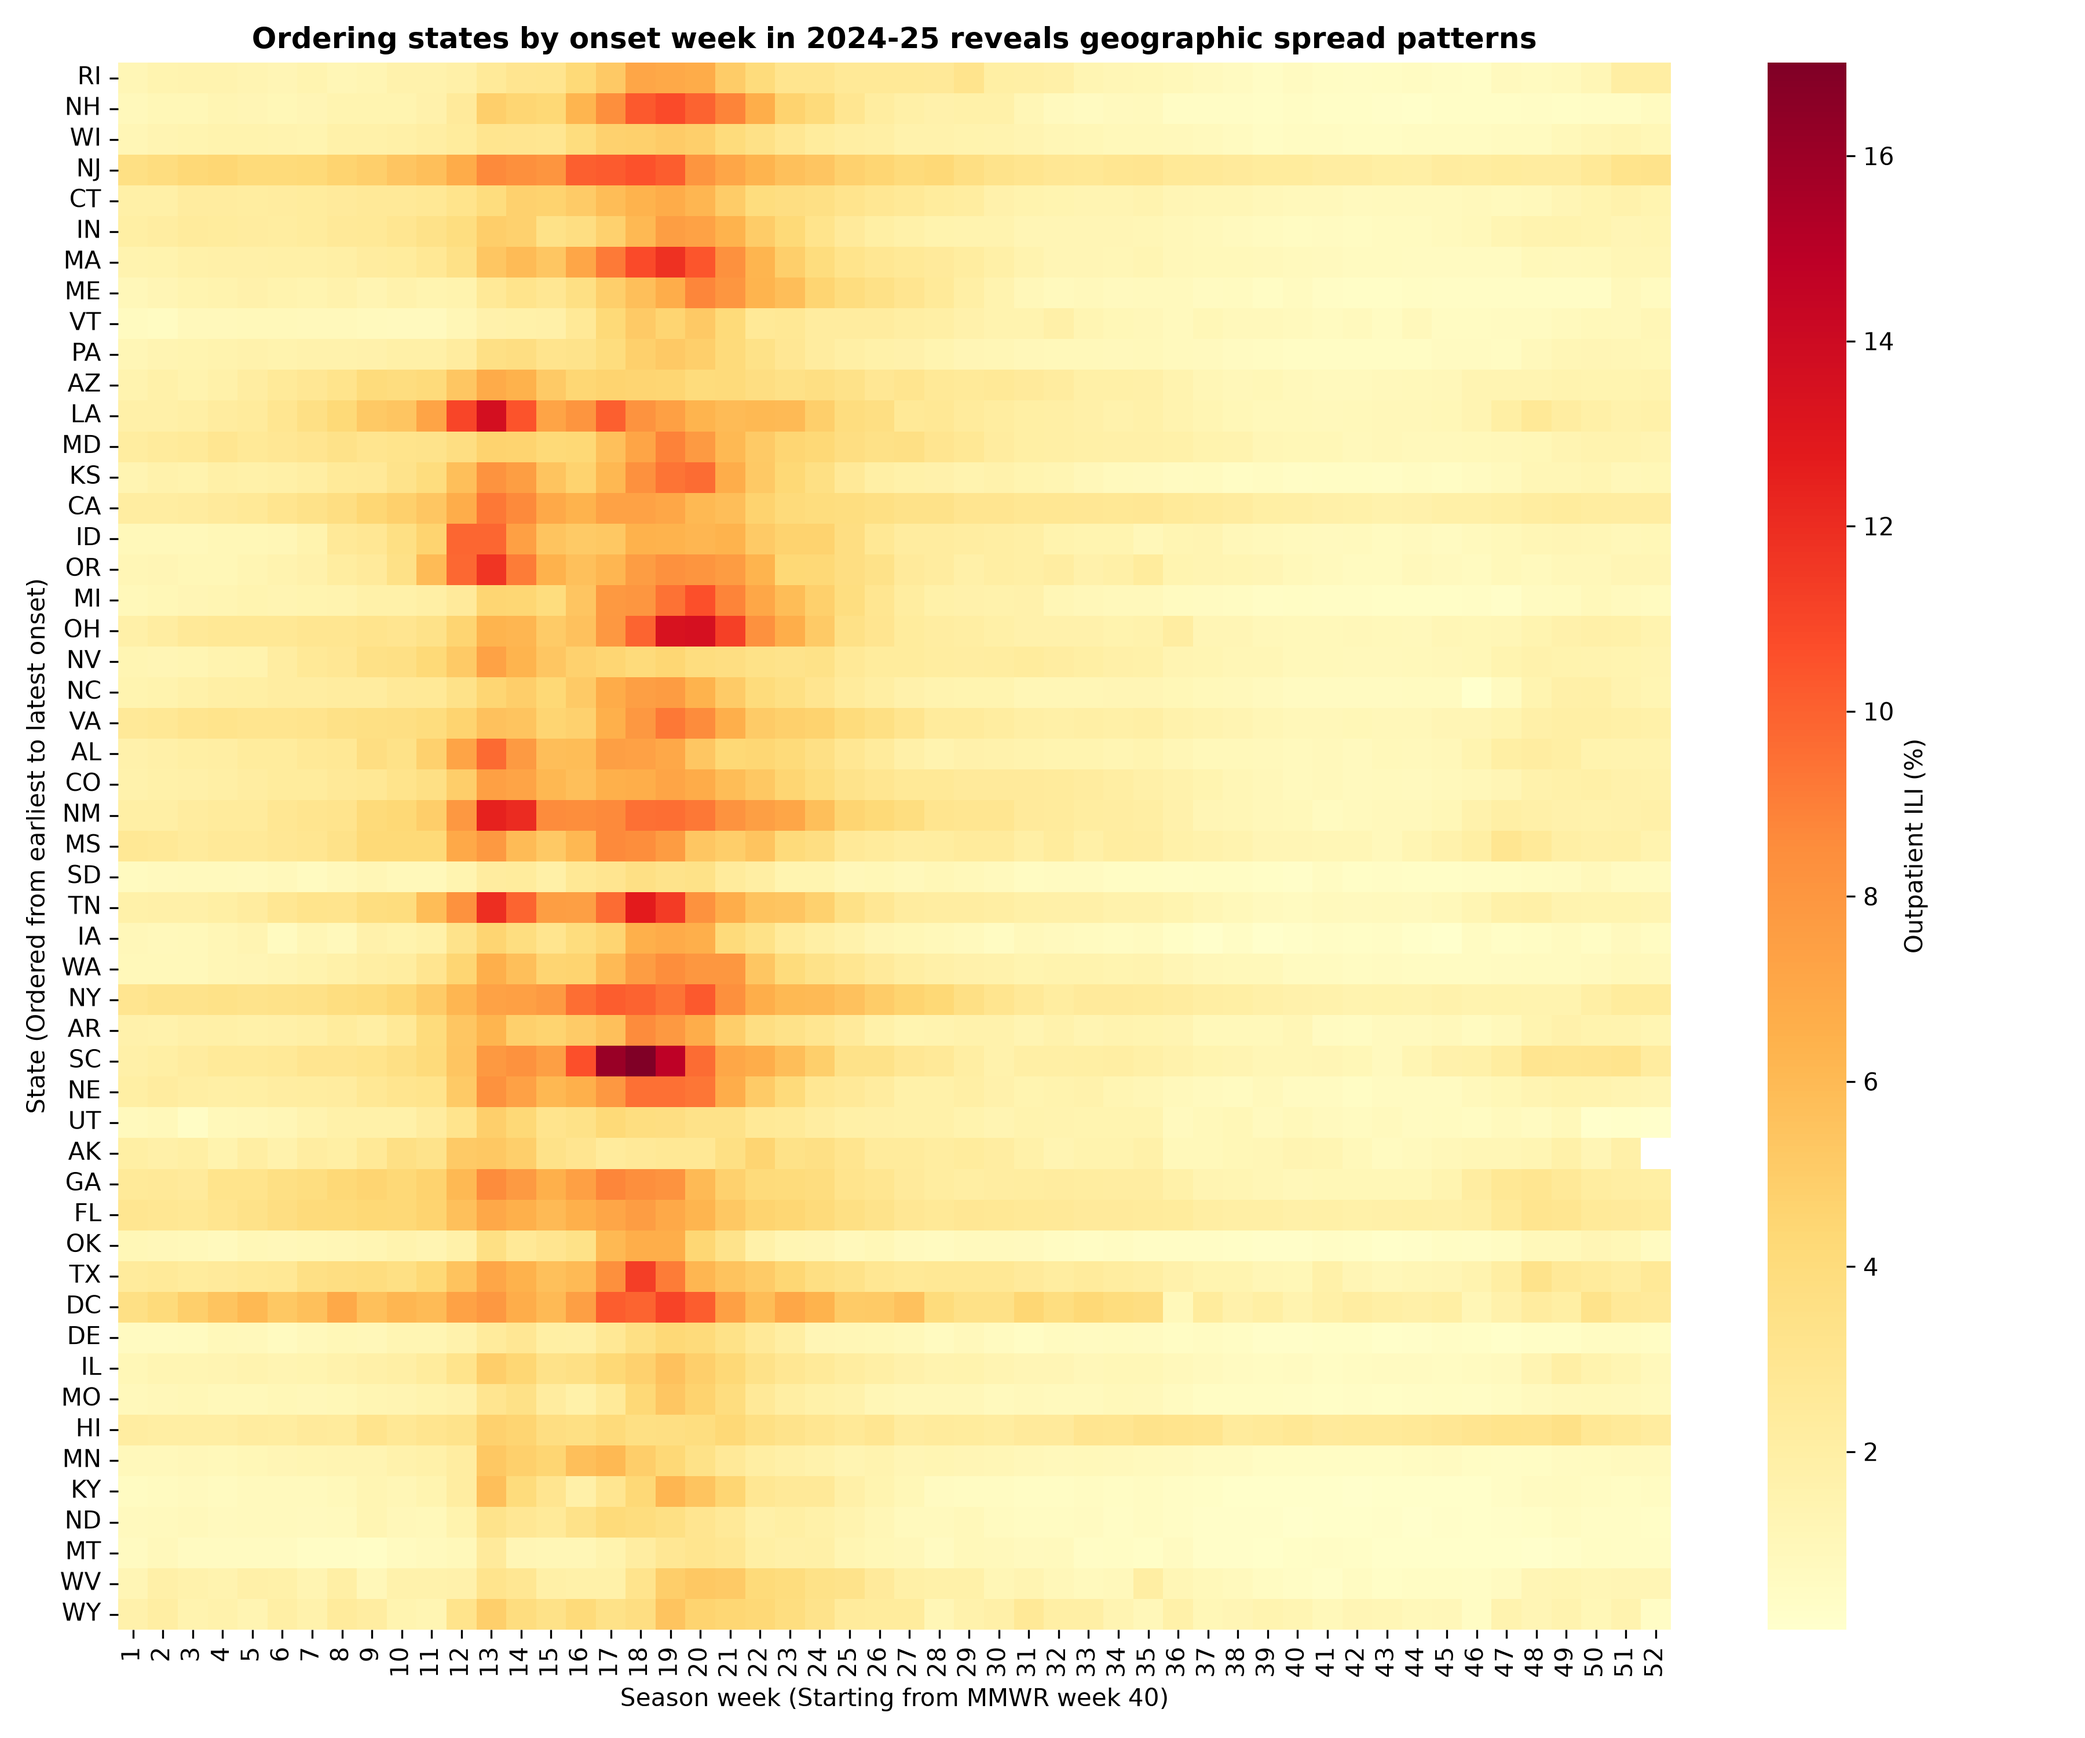
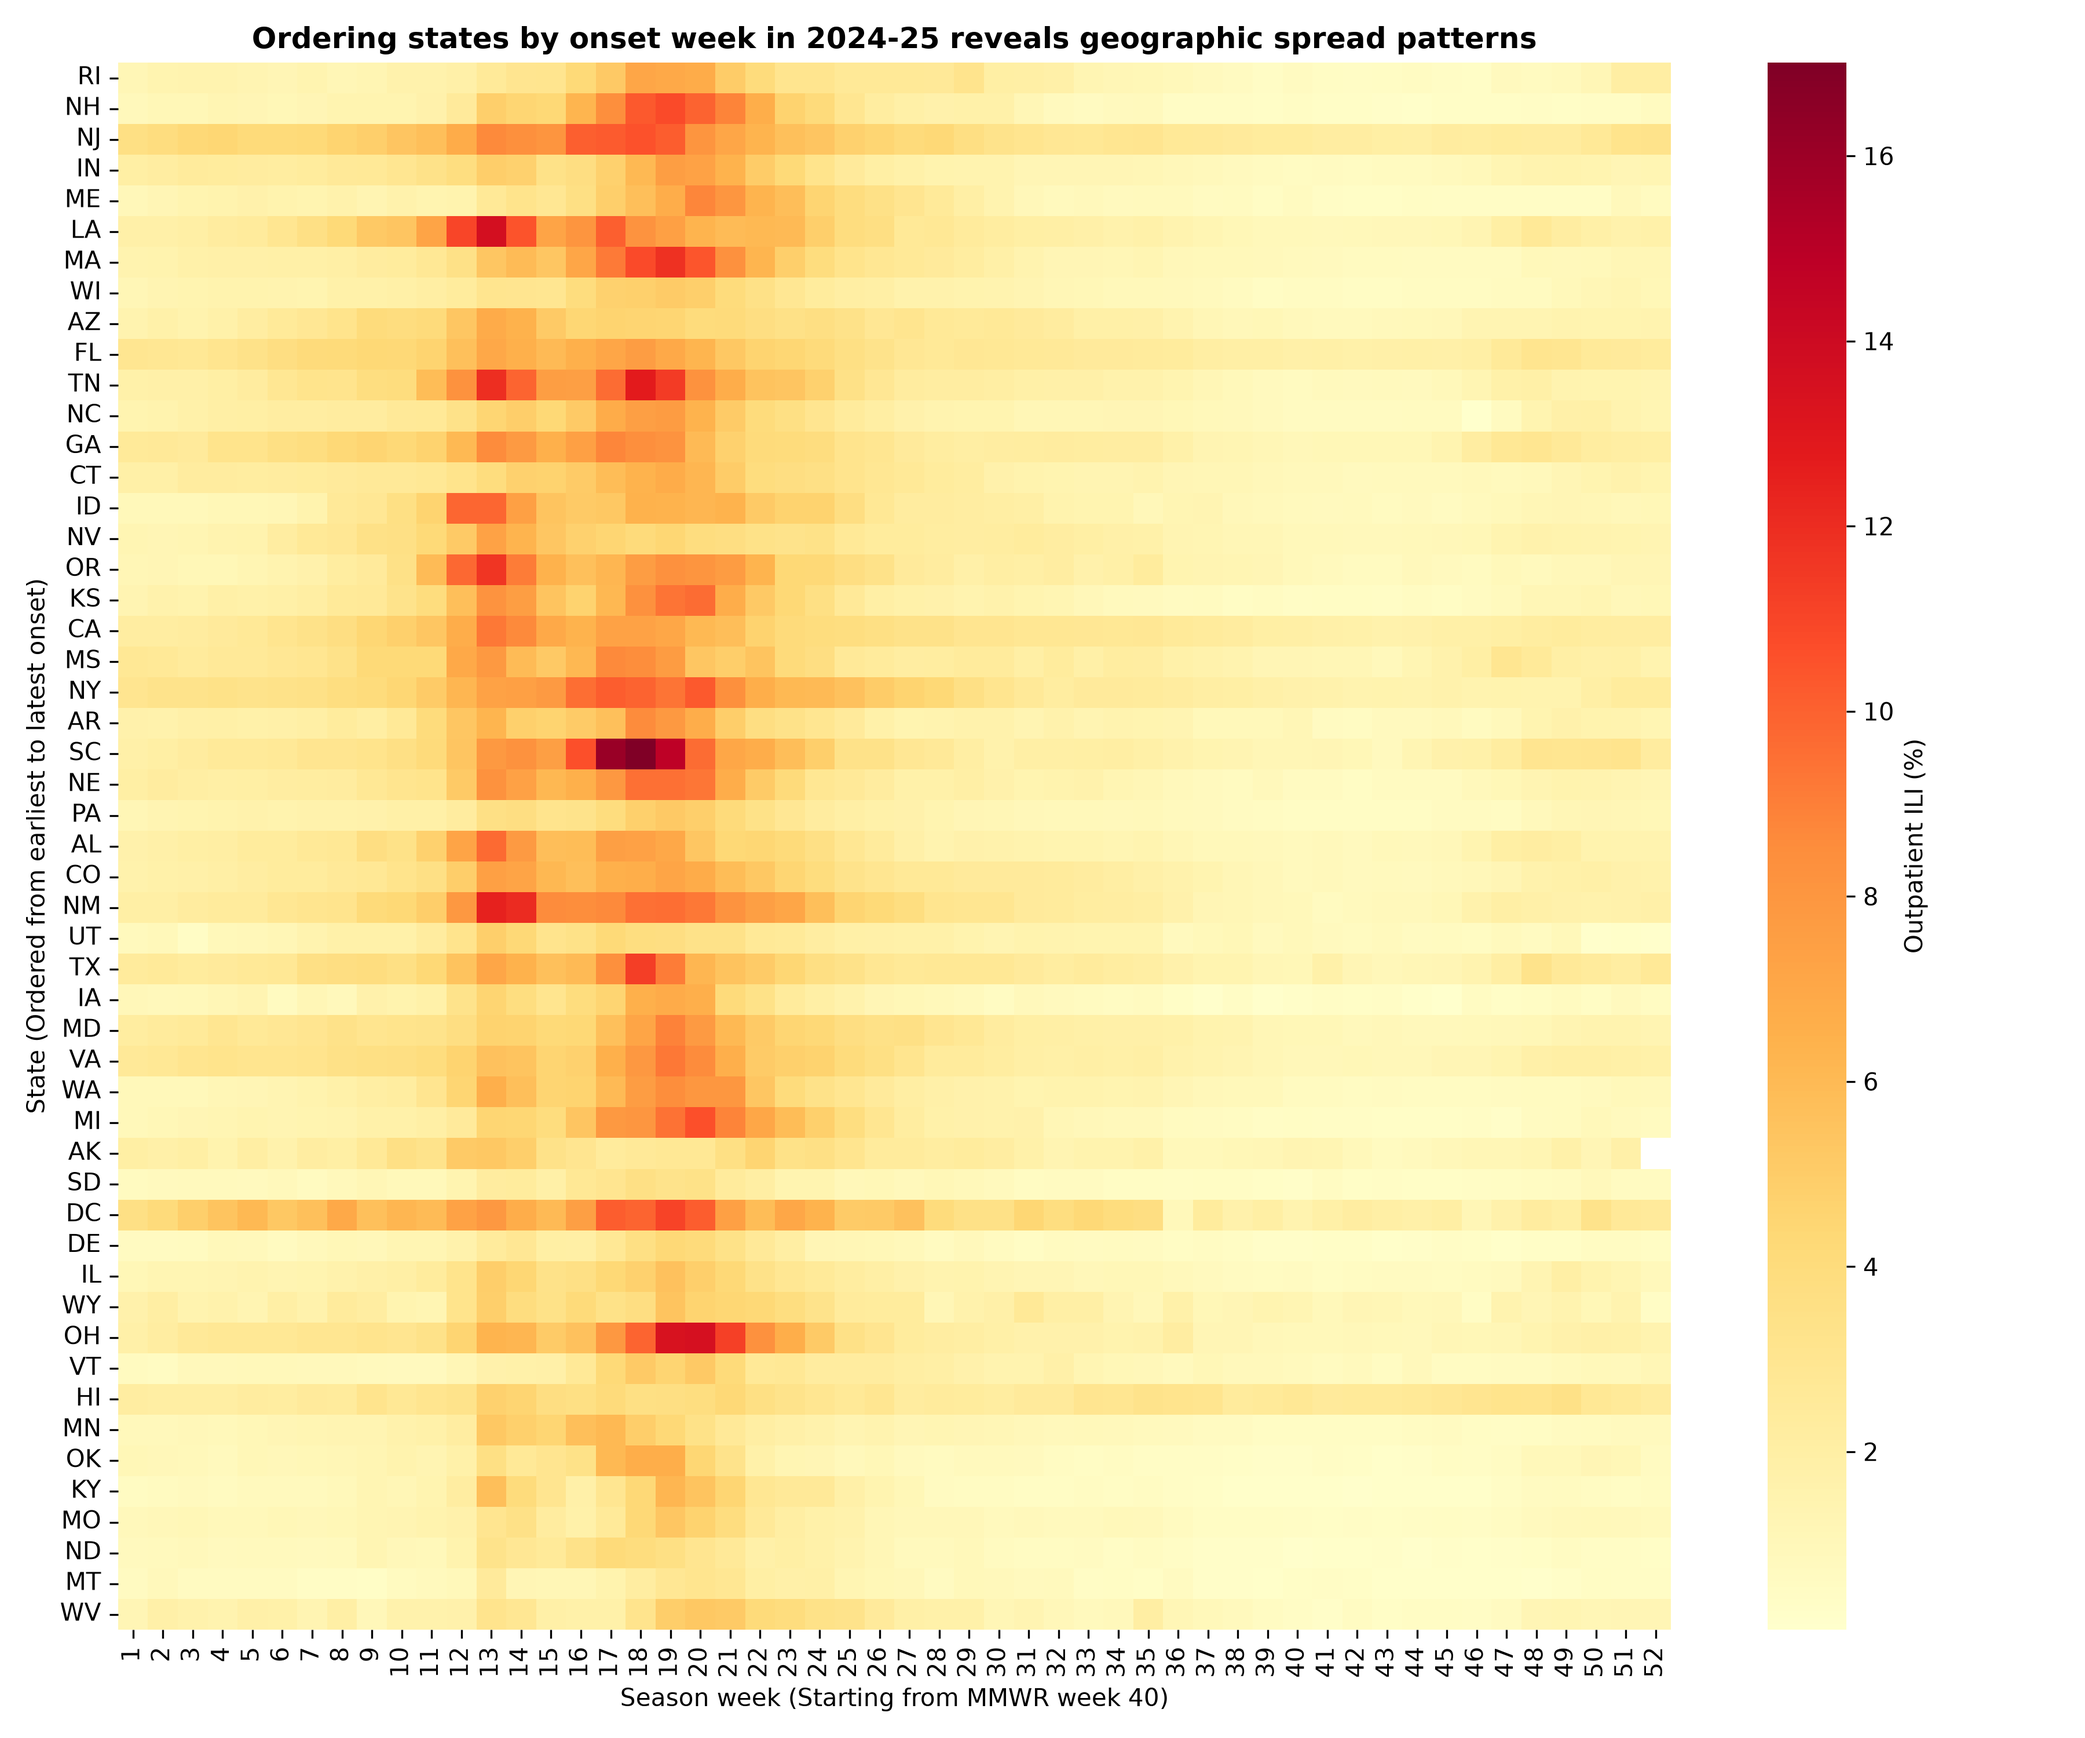
detect non-flu weeks via lab_pct_pos and fix ridgeline

diff --git a/src/fluwatch/seasonality/milestones.py b/src/fluwatch/seasonality/milestones.py
@@ -1,9 +1,9 @@
 import numpy as np
 import pandas as pd
 
+
 # severity = dinh rate_flu (NHSN). NHSN du 51 bang tu 2020-21 (mua bi loai); 2019-20 chi 8 bang -> chi tinh tu mua nay
 SEVERITY_FIRST_SEASON = '2021-22'
-
 
 def mask_sparse_ili(df: pd.DataFrame, max_missing_ratio=0.3):
     df = df.copy()
@@ -26,10 +26,18 @@ def prepare_signal(df: pd.DataFrame, max_missing_ratio=0.3):
 
     return df
 
-def compute_baselines(df: pd.DataFrame):
+def get_non_flu_mask(df: pd.DataFrame, lab_threshold=2, min_consec=3, smooth_window=3):
+    smooth_lab = df['lab_pct_pos'].rolling(window=smooth_window, center=True, min_periods=1).median()
+    below = (smooth_lab < lab_threshold).fillna(False)
+
+    run_id = (~below).cumsum()
+    run_lengths = below.groupby(run_id).transform('sum')
+
+    return below & (run_lengths >= min_consec)
+
+def compute_baselines(df: pd.DataFrame, lab_threshold=2, min_consec=3, smooth_window=3):
     df = df.sort_values(['state', 'season', 'season_week']).copy()
     seasons = sorted(df['season'].unique())
-    off_mask = (df['season_week'] >= 34) | (df['season_week'] <= 3)
 
     records = []
     for (state, season), grp in df.groupby(['state', 'season'], sort=False):
@@ -46,16 +54,29 @@ def compute_baselines(df: pd.DataFrame):
         prev_candidates = [s for s in seasons if s < season and s not in ('2009-10', '2020-21')]
         val_col = 'ili_pct' if source == 'ili' else 'ed_pct_flu'
 
-        valid_prev_seasons = []
+        valid_samples = []
         for ps in reversed(prev_candidates):
-            s_vals = df[(df['state'] == state) & (df['season'] == ps) & off_mask][val_col].dropna()
+            s_grp = df[(df['state'] == state) & (df['season'] == ps)]
+
+            lab_mask = get_non_flu_mask(s_grp, lab_threshold, min_consec, smooth_window)
+            s_vals = s_grp.loc[lab_mask, val_col].dropna()
+
+            if len(s_vals) <= 5:
+                cal_mask = (s_grp['season_week'] >=34) | (s_grp['season_week'] <= 3)
+                s_vals = s_grp.loc[cal_mask, val_col].dropna()
+
             if len(s_vals) > 5:
-                valid_prev_seasons.append(ps)
-            if len(valid_prev_seasons) == 3:
+                valid_samples.append(s_vals)
+                
+            if len(valid_samples) == 3:
                 break
 
-        sub = df[(df['state'] == state) & (df['season'].isin(valid_prev_seasons)) & off_mask][val_col].dropna()
-        baseline = sub.mean() + 2 * sub.std(ddof=1) if len(valid_prev_seasons) > 0 else np.nan
+        if valid_samples:
+            sub = pd.concat(valid_samples)
+            baseline = sub.mean() + 2 * sub.std(ddof=1)
+        else:
+            baseline = np.nan
+
         records.append({
             'state': state,
             'season': season,

diff --git a/src/fluwatch/seasonality/plots.py b/src/fluwatch/seasonality/plots.py
@@ -108,9 +108,11 @@ def plot_onset_ridgeline(milstones: pd.DataFrame, output_dir: Path):
 
     fig, ax = plt.subplots(figsize=(10, 7))
     sub = milstones[(~milstones['season'].isin(EXCLUDE_SEASON + ['2026-27'])) & (milstones['onset_week'].notna())]
+    seasons = sorted(sub['season'].unique(), reverse=True)
 
     x_grid = np.linspace(1, 35, 300)
-    overlap = 0.65
+    max_height = 0.72
+    row_step = 0.5
 
     for idx, season in enumerate(sorted(sub['season'].unique(), reverse=True)):
         vals = sub[sub['season'] == season]['onset_week'].values
@@ -118,21 +120,26 @@ def plot_onset_ridgeline(milstones: pd.DataFrame, output_dir: Path):
             continue
 
         kde = gaussian_kde(vals, bw_method=0.45)
-        y_vals = kde(x_grid)
-        y_vals = y_vals / y_vals.max() * overlap
-        baseline_y = idx * 0.55
+        raw_y = kde(x_grid)
+        y_vals = raw_y / raw_y.max() * max_height
+        baseline_y = idx * row_step
 
-        ax.fill_between(x_grid, baseline_y, baseline_y + y_vals, color='#0072B2', alpha=0.65, zorder=idx+1)
-        ax.plot(x_grid, baseline_y + y_vals, color='white', linewidth=1.2, zorder=idx+2)
-        ax.axhline(baseline_y, color='#BDBDBD', linewidth=0.6, zorder=idx)
+        z_base = (len(seasons) - idx) * 10
+
+        ax.fill_between(x_grid, baseline_y, baseline_y + y_vals, color='white', alpha=1, zorder=z_base)
+        ax.fill_between(x_grid, baseline_y, baseline_y + y_vals, color='#0072B2', alpha=0.78, zorder=z_base + 1)
+        ax.plot(x_grid, baseline_y + y_vals, color='white', linewidth=1.2, zorder=z_base + 2)
+        ax.axhline(baseline_y, color='#BDBDBD', linewidth=0.6, zorder=z_base - 1)
 
         med = np.median(vals)
-        ax.plot([med, med], [baseline_y, baseline_y + overlap * 0.65], color='#D55E00', linestyle='--', linewidth=1.5, zorder=idx+3)
-        ax.text(0.5, baseline_y + 0.08, season, fontweight='bold', fontsize=9, va='bottom', ha='right')
+        med_height = kde([med])[0] / raw_y.max() * max_height
+        ax.plot([med, med], [baseline_y, baseline_y + med_height], color='#D55E00', linestyle='--', linewidth=1.5, zorder=z_base + 3)
+        ax.text(0.4, baseline_y + 0.06, season, fontweight='bold', fontsize=9, va='bottom', ha='right')
 
     ax.set_yticks([])
     ax.spines['left'].set_visible(False)
     ax.set_xlim(1, 35)
+    ax.set_ylim(-0.05, (len(seasons) - 1) * row_step + max_height + 0.1)
     ax.set_xlabel("Onset week (Weeks since MMWR week 40)")
     ax.set_title("Seasonal distribution of epidemic onset weeks shifts notably across influenza seasons")
 
